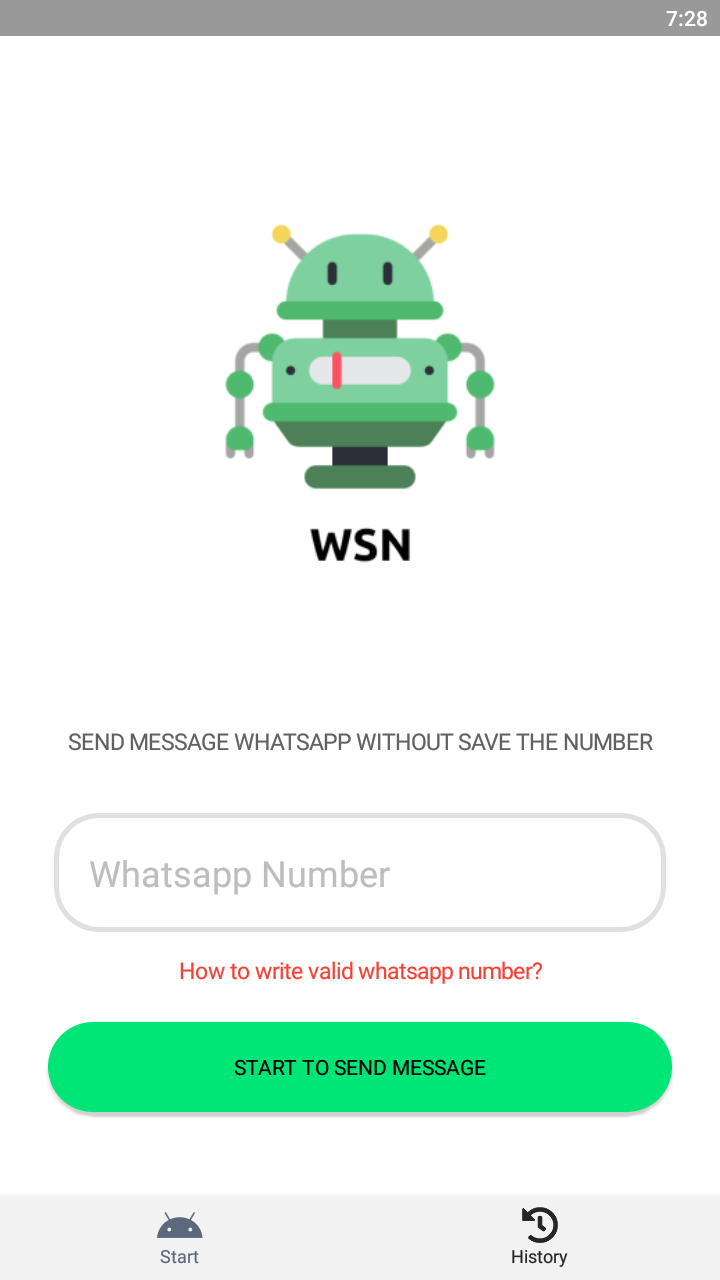
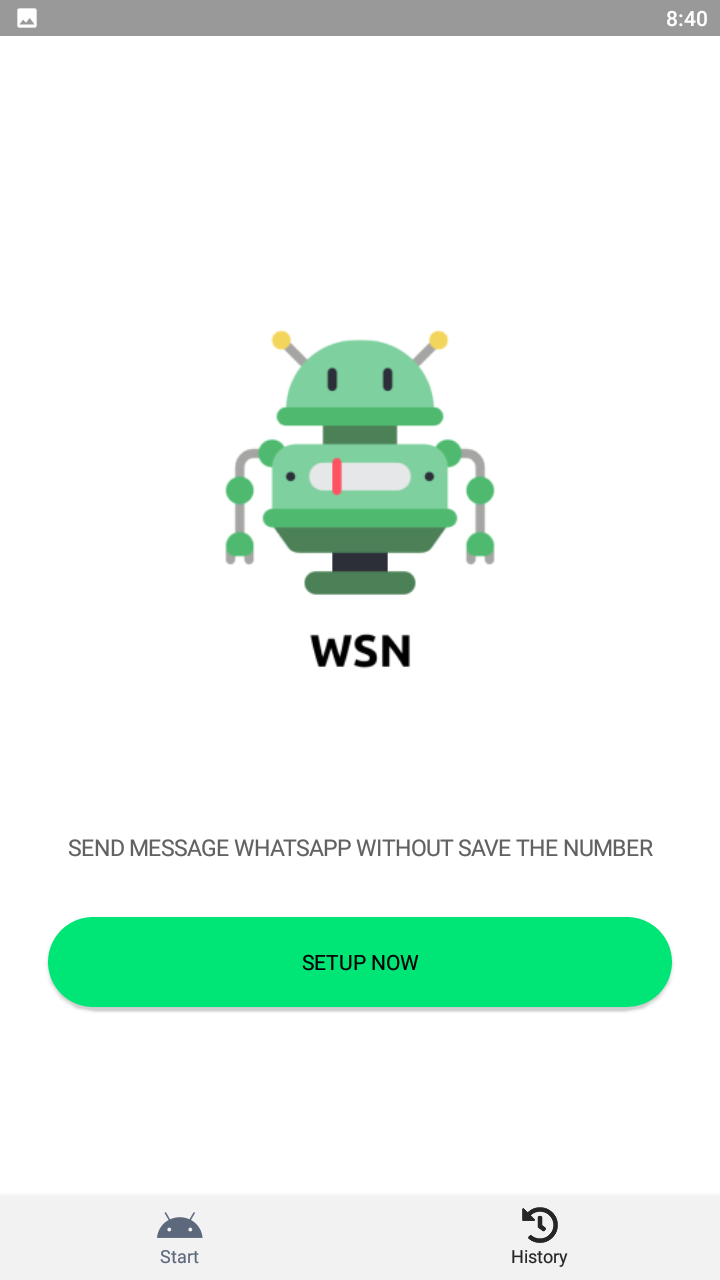
update 1.5.0

diff --git a/app/global-helper.js b/app/global-helper.js
@@ -261,4 +261,23 @@ exports.invalidPhoneNumber = function(num){
     {
         return false;
     }
-}
+};
+
+exports.countryList = function(keyword=false){
+    const jsonCountry = [{"name":"Afghanistan","dial_code":"+93","code":"AF","flag":"🇦🇫"},{"name":"Åland Islands","dial_code":"+358","code":"AX","flag":"🇦🇽"},{"name":"Albania","dial_code":"+355","code":"AL","flag":"🇦🇱"},{"name":"Algeria","dial_code":"+213","code":"DZ","flag":"🇩🇿"},{"name":"American Samoa","dial_code":"+1684","code":"AS","flag":"🇺🇸"},{"name":"Andorra","dial_code":"+376","code":"AD","flag":"🇦🇩"},{"name":"Angola","dial_code":"+244","code":"AO","flag":"🇦🇴"},{"name":"Anguilla","dial_code":"+1264","code":"AI","flag":"🇦🇮"},{"name":"Antarctica","dial_code":"+672","code":"AQ","flag":"🇦🇶"},{"name":"Antigua and Barbuda","dial_code":"+1268","code":"AG","flag":"🇦🇬"},{"name":"Argentina","dial_code":"+54","code":"AR","flag":"🇦🇷"},{"name":"Armenia","dial_code":"+374","code":"AM","flag":"🇦🇲"},{"name":"Aruba","dial_code":"+297","code":"AW","flag":"🇦🇼"},{"name":"Australia","dial_code":"+61","code":"AU","flag":"🇦🇺"},{"name":"Austria","dial_code":"+43","code":"AT","flag":"🇦🇹"},{"name":"Azerbaijan","dial_code":"+994","code":"AZ","flag":"🇦🇿"},{"name":"Bahamas","dial_code":"+1242","code":"BS","flag":"🇧🇸"},{"name":"Bahrain","dial_code":"+973","code":"BH","flag":"🇧🇸"},{"name":"Bangladesh","dial_code":"+880","code":"BD","flag":"🇧🇩"},{"name":"Barbados","dial_code":"+1246","code":"BB","flag":"🇧🇧"},{"name":"Belarus","dial_code":"+375","code":"BY","flag":"🇧🇾"},{"name":"Belgium","dial_code":"+32","code":"BE","flag":"🇧🇪"},{"name":"Belize","dial_code":"+501","code":"BZ","flag":"🇧🇿"},{"name":"Benin","dial_code":"+229","code":"BJ","flag":"🇧🇯"},{"name":"Bermuda","dial_code":"+1441","code":"BM","flag":"🇧🇲"},{"name":"Bhutan","dial_code":"+975","code":"BT","flag":"🇧🇹"},{"name":"Bolivia, Plurinational State of bolivia","dial_code":"+591","code":"BO","flag":"🇧🇴"},{"name":"Bosnia and Herzegovina","dial_code":"+387","code":"BA","flag":"🇧🇦"},{"name":"Botswana","dial_code":"+267","code":"BW","flag":"🇧🇼"},{"name":"Bouvet Island","dial_code":"+47","code":"BV","flag":"🏳"},{"name":"Brazil","dial_code":"+55","code":"BR","flag":"🇧🇷"},{"name":"British Indian Ocean Territory","dial_code":"+246","code":"IO","flag":"🇮🇴"},{"name":"Brunei Darussalam","dial_code":"+673","code":"BN","flag":"🇧🇳"},{"name":"Bulgaria","dial_code":"+359","code":"BG","flag":"🇧🇬"},{"name":"Burkina Faso","dial_code":"+226","code":"BF","flag":"🇧🇫"},{"name":"Burundi","dial_code":"+257","code":"BI","flag":"🇧🇮"},{"name":"Cambodia","dial_code":"+855","code":"KH","flag":"🇰🇭"},{"name":"Cameroon","dial_code":"+237","code":"CM","flag":"🇨🇲"},{"name":"Canada","dial_code":"+1","code":"CA","flag":"🇨🇦"},{"name":"Cape Verde","dial_code":"+238","code":"CV","flag":"🇨🇻"},{"name":"Cayman Islands","dial_code":"+ 345","code":"KY","flag":"🇰🇾"},{"name":"Central African Republic","dial_code":"+236","code":"CF","flag":"🇨🇫"},{"name":"Chad","dial_code":"+235","code":"TD","flag":"🇹🇩"},{"name":"Chile","dial_code":"+56","code":"CL","flag":"🇨🇱"},{"name":"China","dial_code":"+86","code":"CN","flag":"🇨🇳"},{"name":"Christmas Island","dial_code":"+61","code":"CX","flag":"🇨🇽"},{"name":"Cocos (Keeling) Islands","dial_code":"+61","code":"CC","flag":"🇨🇨"},{"name":"Colombia","dial_code":"+57","code":"CO","flag":"🇨🇴"},{"name":"Comoros","dial_code":"+269","code":"KM","flag":"🇰🇲"},{"name":"Congo","dial_code":"+242","code":"CG","flag":"🇨🇬"},{"name":"Congo, The Democratic Republic of the Congo","dial_code":"+243","code":"CD","flag":"🇨🇩"},{"name":"Cook Islands","dial_code":"+682","code":"CK","flag":"🇨🇰"},{"name":"Costa Rica","dial_code":"+506","code":"CR","flag":"🇨🇷"},{"name":"Cote d'Ivoire","dial_code":"+225","code":"CI","flag":"🇨🇮"},{"name":"Croatia","dial_code":"+385","code":"HR","flag":"🇭🇷"},{"name":"Cuba","dial_code":"+53","code":"CU","flag":"🇨🇺"},{"name":"Cyprus","dial_code":"+357","code":"CY","flag":"🇨🇾"},{"name":"Czech Republic","dial_code":"+420","code":"CZ","flag":"🇨🇿"},{"name":"Denmark","dial_code":"+45","code":"DK","flag":"🇩🇰"},{"name":"Djibouti","dial_code":"+253","code":"DJ","flag":"🇩🇯"},{"name":"Dominica","dial_code":"+1767","code":"DM","flag":"🇩🇲"},{"name":"Dominican Republic","dial_code":"+1849","code":"DO","flag":"🇨🇩"},{"name":"Ecuador","dial_code":"+593","code":"EC","flag":"🇪🇨"},{"name":"Egypt","dial_code":"+20","code":"EG","flag":"🇪🇬"},{"name":"El Salvador","dial_code":"+503","code":"SV","flag":"🇸🇻"},{"name":"Equatorial Guinea","dial_code":"+240","code":"GQ","flag":"🇬🇶"},{"name":"Eritrea","dial_code":"+291","code":"ER","flag":"🇪🇷"},{"name":"Estonia","dial_code":"+372","code":"EE","flag":"🇪🇪"},{"name":"Ethiopia","dial_code":"+251","code":"ET","flag":"🇪🇹"},{"name":"Falkland Islands (Malvinas)","dial_code":"+500","code":"FK","flag":"🇫🇰"},{"name":"Faroe Islands","dial_code":"+298","code":"FO","flag":"🇫🇴"},{"name":"Fiji","dial_code":"+679","code":"FJ","flag":"🇫🇯"},{"name":"Finland","dial_code":"+358","code":"FI","flag":"🇫🇮"},{"name":"France","dial_code":"+33","code":"FR","flag":"🇫🇷"},{"name":"French Guiana","dial_code":"+594","code":"GF","flag":"🇬🇫"},{"name":"French Polynesia","dial_code":"+689","code":"PF","flag":"🇵🇫"},{"name":"French Southern Territories","dial_code":"+262","code":"TF","flag":"🇹🇫"},{"name":"Gabon","dial_code":"+241","code":"GA","flag":"🇬🇦"},{"name":"Gambia","dial_code":"+220","code":"GM","flag":"🇬🇲"},{"name":"Georgia","dial_code":"+995","code":"GE","flag":"🇬🇪"},{"name":"Germany","dial_code":"+49","code":"DE","flag":"🇩🇪"},{"name":"Ghana","dial_code":"+233","code":"GH","flag":"🇬🇭"},{"name":"Gibraltar","dial_code":"+350","code":"GI","flag":"🇬🇮"},{"name":"Greece","dial_code":"+30","code":"GR","flag":"🇬🇷"},{"name":"Greenland","dial_code":"+299","code":"GL","flag":"🇬🇱"},{"name":"Grenada","dial_code":"+1473","code":"GD","flag":"🇬🇩"},{"name":"Guadeloupe","dial_code":"+590","code":"GP","flag":"🇬🇵"},{"name":"Guam","dial_code":"+1671","code":"GU","flag":"🇬🇺"},{"name":"Guatemala","dial_code":"+502","code":"GT","flag":"🇬🇹"},{"name":"Guernsey","dial_code":"+44","code":"GG","flag":"🇬🇬"},{"name":"Guinea","dial_code":"+224","code":"GN","flag":"🇬🇳"},{"name":"Guinea-Bissau","dial_code":"+245","code":"GW","flag":"🇬🇼"},{"name":"Guyana","dial_code":"+592","code":"GY","flag":"🇬🇾"},{"name":"Haiti","dial_code":"+509","code":"HT","flag":"🇭🇹"},{"name":"Heard Island and Mcdonald Islands","dial_code":"+0","code":"HM","flag":"🏳"},{"name":"Holy See (Vatican City State)","dial_code":"+379","code":"VA","flag":"🇻🇦"},{"name":"Honduras","dial_code":"+504","code":"HN","flag":"🇭🇳"},{"name":"Hong Kong","dial_code":"+852","code":"HK","flag":"🇭🇰"},{"name":"Hungary","dial_code":"+36","code":"HU","flag":"🇭🇺"},{"name":"Iceland","dial_code":"+354","code":"IS","flag":"🇮🇸"},{"name":"India","dial_code":"+91","code":"IN","flag":"🇮🇳"},{"name":"Indonesia","dial_code":"+62","code":"ID","flag":"🇮🇩"},{"name":"Iran, Islamic Republic of Persian Gulf","dial_code":"+98","code":"IR","flag":"🇮🇷"},{"name":"Iraq","dial_code":"+964","code":"IQ","flag":"🇮🇶"},{"name":"Ireland","dial_code":"+353","code":"IE","flag":"🇮🇪"},{"name":"Isle of Man","dial_code":"+44","code":"IM","flag":"🇮🇲"},{"name":"Israel","dial_code":"+972","code":"IL","flag":"🇮🇱"},{"name":"Italy","dial_code":"+39","code":"IT","flag":"🇮🇹"},{"name":"Jamaica","dial_code":"+1876","code":"JM","flag":"🇯🇲"},{"name":"Japan","dial_code":"+81","code":"JP","flag":"🇯🇵"},{"name":"Jersey","dial_code":"+44","code":"JE","flag":"🇯🇪"},{"name":"Jordan","dial_code":"+962","code":"JO","flag":"🇯🇴"},{"name":"Kazakhstan","dial_code":"+7","code":"KZ","flag":"🇰🇿"},{"name":"Kenya","dial_code":"+254","code":"KE","flag":"🇰🇪"},{"name":"Kiribati","dial_code":"+686","code":"KI","flag":"🇰🇮"},{"name":"Korea, Democratic People's Republic of Korea","dial_code":"+850","code":"KP","flag":"🇰🇵"},{"name":"Korea, Republic of South Korea","dial_code":"+82","code":"KR","flag":"🇰🇷"},{"name":"Kosovo","dial_code":"+383","code":"XK","flag":"🇽🇰"},{"name":"Kuwait","dial_code":"+965","code":"KW","flag":"🇰🇼"},{"name":"Kyrgyzstan","dial_code":"+996","code":"KG","flag":"🇰🇬"},{"name":"Laos","dial_code":"+856","code":"LA","flag":"🇱🇦"},{"name":"Latvia","dial_code":"+371","code":"LV","flag":"🇱🇻"},{"name":"Lebanon","dial_code":"+961","code":"LB","flag":"🇱🇧"},{"name":"Lesotho","dial_code":"+266","code":"LS","flag":"🇱🇸"},{"name":"Liberia","dial_code":"+231","code":"LR","flag":"🇱🇷"},{"name":"Libyan Arab Jamahiriya","dial_code":"+218","code":"LY","flag":"🇱🇾"},{"name":"Liechtenstein","dial_code":"+423","code":"LI","flag":"🇱🇮"},{"name":"Lithuania","dial_code":"+370","code":"LT","flag":"🇱🇹"},{"name":"Luxembourg","dial_code":"+352","code":"LU","flag":"🇱🇺"},{"name":"Macao","dial_code":"+853","code":"MO","flag":"🇲🇴"},{"name":"Macedonia","dial_code":"+389","code":"MK","flag":"🇲🇰"},{"name":"Madagascar","dial_code":"+261","code":"MG","flag":"🇲🇬"},{"name":"Malawi","dial_code":"+265","code":"MW","flag":"🇲🇼"},{"name":"Malaysia","dial_code":"+60","code":"MY","flag":"🇲🇾"},{"name":"Maldives","dial_code":"+960","code":"MV","flag":"🇲🇻"},{"name":"Mali","dial_code":"+223","code":"ML","flag":"🇲🇱"},{"name":"Malta","dial_code":"+356","code":"MT","flag":"🇲🇹"},{"name":"Marshall Islands","dial_code":"+692","code":"MH","flag":"🇲🇭"},{"name":"Martinique","dial_code":"+596","code":"MQ","flag":"🇲🇶"},{"name":"Mauritania","dial_code":"+222","code":"MR","flag":"🇲🇷"},{"name":"Mauritius","dial_code":"+230","code":"MU","flag":"🇲🇺"},{"name":"Mayotte","dial_code":"+262","code":"YT","flag":"🇾🇹"},{"name":"Mexico","dial_code":"+52","code":"MX","flag":"🇲🇽"},{"name":"Micronesia, Federated States of Micronesia","dial_code":"+691","code":"FM","flag":"🇫🇲"},{"name":"Moldova","dial_code":"+373","code":"MD","flag":"🇲🇩"},{"name":"Monaco","dial_code":"+377","code":"MC","flag":"🇲🇨"},{"name":"Mongolia","dial_code":"+976","code":"MN","flag":"🇲🇳"},{"name":"Montenegro","dial_code":"+382","code":"ME","flag":"🇲🇪"},{"name":"Montserrat","dial_code":"+1664","code":"MS","flag":"🇲🇸"},{"name":"Morocco","dial_code":"+212","code":"MA","flag":"🇲🇦"},{"name":"Mozambique","dial_code":"+258","code":"MZ","flag":"🇲🇿"},{"name":"Myanmar","dial_code":"+95","code":"MM","flag":"🇲🇲"},{"name":"Namibia","dial_code":"+264","code":"NA","flag":"🇳🇦"},{"name":"Nauru","dial_code":"+674","code":"NR","flag":"🇳🇷"},{"name":"Nepal","dial_code":"+977","code":"NP","flag":"🇳🇵"},{"name":"Netherlands","dial_code":"+31","code":"NL","flag":"🇳🇱"},{"name":"Netherlands Antilles","dial_code":"+599","code":"AN","flag":"🇳🇱"},{"name":"New Caledonia","dial_code":"+687","code":"NC","flag":"🇳🇨"},{"name":"New Zealand","dial_code":"+64","code":"NZ","flag":"🇳🇿"},{"name":"Nicaragua","dial_code":"+505","code":"NI","flag":"🇳🇮"},{"name":"Niger","dial_code":"+227","code":"NE","flag":"🇳🇪"},{"name":"Nigeria","dial_code":"+234","code":"NG","flag":"🇳🇬"},{"name":"Niue","dial_code":"+683","code":"NU","flag":"🇳🇺"},{"name":"Norfolk Island","dial_code":"+672","code":"NF","flag":"🇳🇫"},{"name":"Northern Mariana Islands","dial_code":"+1670","code":"MP","flag":"🏳"},{"name":"Norway","dial_code":"+47","code":"NO","flag":"🇳🇴"},{"name":"Oman","dial_code":"+968","code":"OM","flag":"🇴🇲"},{"name":"Pakistan","dial_code":"+92","code":"PK","flag":"🇵🇰"},{"name":"Palau","dial_code":"+680","code":"PW","flag":"🇵🇼"},{"name":"Palestinian Territory, Occupied","dial_code":"+970","code":"PS","flag":"🇵🇸"},{"name":"Panama","dial_code":"+507","code":"PA","flag":"🇵🇦"},{"name":"Papua New Guinea","dial_code":"+675","code":"PG","flag":"🇵🇬"},{"name":"Paraguay","dial_code":"+595","code":"PY","flag":"🇵🇾"},{"name":"Peru","dial_code":"+51","code":"PE","flag":"🇵🇪"},{"name":"Philippines","dial_code":"+63","code":"PH","flag":"🇵🇭"},{"name":"Pitcairn","dial_code":"+64","code":"PN","flag":"🇵🇳"},{"name":"Poland","dial_code":"+48","code":"PL","flag":"🇵🇱"},{"name":"Portugal","dial_code":"+351","code":"PT","flag":"🇵🇹"},{"name":"Puerto Rico","dial_code":"+1939","code":"PR","flag":"🇵🇷"},{"name":"Qatar","dial_code":"+974","code":"QA","flag":"🇶🇦"},{"name":"Romania","dial_code":"+40","code":"RO","flag":"🇷🇴"},{"name":"Russia","dial_code":"+7","code":"RU","flag":"🇷🇺"},{"name":"Rwanda","dial_code":"+250","code":"RW","flag":"🇷🇼"},{"name":"Reunion","dial_code":"+262","code":"RE","flag":"🇫🇷"},{"name":"Saint Barthelemy","dial_code":"+590","code":"BL","flag":"🇧🇱"},{"name":"Saint Helena, Ascension and Tristan Da Cunha","dial_code":"+290","code":"SH","flag":"🇸🇭"},{"name":"Saint Kitts and Nevis","dial_code":"+1869","code":"KN","flag":"🇰🇳"},{"name":"Saint Lucia","dial_code":"+1758","code":"LC","flag":"🇱🇨"},{"name":"Saint Martin","dial_code":"+590","code":"MF","flag":"🏳"},{"name":"Saint Pierre and Miquelon","dial_code":"+508","code":"PM","flag":"🇵🇲"},{"name":"Saint Vincent and the Grenadines","dial_code":"+1784","code":"VC","flag":"🇻🇨"},{"name":"Samoa","dial_code":"+685","code":"WS","flag":"🇼🇸"},{"name":"San Marino","dial_code":"+378","code":"SM","flag":"🇸🇲"},{"name":"Sao Tome and Principe","dial_code":"+239","code":"ST","flag":"🇸🇹"},{"name":"Saudi Arabia","dial_code":"+966","code":"SA","flag":"🇸🇦"},{"name":"Senegal","dial_code":"+221","code":"SN","flag":"🇸🇳"},{"name":"Serbia","dial_code":"+381","code":"RS","flag":"🇷🇸"},{"name":"Seychelles","dial_code":"+248","code":"SC","flag":"🇸🇨"},{"name":"Sierra Leone","dial_code":"+232","code":"SL","flag":"🇸🇱"},{"name":"Singapore","dial_code":"+65","code":"SG","flag":"🇸🇬"},{"name":"Slovakia","dial_code":"+421","code":"SK","flag":"🇸🇰"},{"name":"Slovenia","dial_code":"+386","code":"SI","flag":"🇸🇮"},{"name":"Solomon Islands","dial_code":"+677","code":"SB","flag":"🇸🇧"},{"name":"Somalia","dial_code":"+252","code":"SO","flag":"🇸🇴"},{"name":"South Africa","dial_code":"+27","code":"ZA","flag":"🇿🇦"},{"name":"South Sudan","dial_code":"+211","code":"SS","flag":"🇸🇸"},{"name":"South Georgia and the South Sandwich Islands","dial_code":"+500","code":"GS","flag":"🇬🇸"},{"name":"Spain","dial_code":"+34","code":"ES","flag":"🇪🇸"},{"name":"Sri Lanka","dial_code":"+94","code":"LK","flag":"🇱🇰"},{"name":"Sudan","dial_code":"+249","code":"SD","flag":"🇸🇩"},{"name":"Suriname","dial_code":"+597","code":"SR","flag":"🇸🇷"},{"name":"Svalbard and Jan Mayen","dial_code":"+47","code":"SJ","flag":"🇩🇰"},{"name":"Swaziland","dial_code":"+268","code":"SZ","flag":"🇸🇿"},{"name":"Sweden","dial_code":"+46","code":"SE","flag":"🇸🇪"},{"name":"Switzerland","dial_code":"+41","code":"CH","flag":"🇨🇭"},{"name":"Syrian Arab Republic","dial_code":"+963","code":"SY","flag":"🇸🇾"},{"name":"Taiwan","dial_code":"+886","code":"TW","flag":"🇹🇼"},{"name":"Tajikistan","dial_code":"+992","code":"TJ","flag":"🇹🇯"},{"name":"Tanzania, United Republic of Tanzania","dial_code":"+255","code":"TZ","flag":"🇹🇿"},{"name":"Thailand","dial_code":"+66","code":"TH","flag":"🇹🇭"},{"name":"Timor-Leste","dial_code":"+670","code":"TL","flag":"🇹🇱"},{"name":"Togo","dial_code":"+228","code":"TG","flag":"🇹🇬"},{"name":"Tokelau","dial_code":"+690","code":"TK","flag":"🇹🇰"},{"name":"Tonga","dial_code":"+676","code":"TO","flag":"🇹🇴"},{"name":"Trinidad and Tobago","dial_code":"+1868","code":"TT","flag":"🇹🇹"},{"name":"Tunisia","dial_code":"+216","code":"TN","flag":"🇹🇳"},{"name":"Turkey","dial_code":"+90","code":"TR","flag":"🇹🇷"},{"name":"Turkmenistan","dial_code":"+993","code":"TM","flag":"🇹🇲"},{"name":"Turks and Caicos Islands","dial_code":"+1649","code":"TC","flag":"🇹🇨"},{"name":"Tuvalu","dial_code":"+688","code":"TV","flag":"🇹🇻"},{"name":"Uganda","dial_code":"+256","code":"UG","flag":"🇺🇬"},{"name":"Ukraine","dial_code":"+380","code":"UA","flag":"🇺🇦"},{"name":"United Arab Emirates","dial_code":"+971","code":"AE","flag":"🇦🇪"},{"name":"United Kingdom","dial_code":"+44","code":"GB","flag":"🇬🇧"},{"name":"United States","dial_code":"+1","code":"US","flag":"🇺🇸"},{"name":"Uruguay","dial_code":"+598","code":"UY","flag":"🇺🇾"},{"name":"Uzbekistan","dial_code":"+998","code":"UZ","flag":"🇺🇿"},{"name":"Vanuatu","dial_code":"+678","code":"VU","flag":"🇻🇺"},{"name":"Venezuela, Bolivarian Republic of Venezuela","dial_code":"+58","code":"VE","flag":"🇻🇪"},{"name":"Vietnam","dial_code":"+84","code":"VN","flag":"🇻🇳"},{"name":"Virgin Islands, British","dial_code":"+1284","code":"VG","flag":"🇻🇬"},{"name":"Virgin Islands, U.S.","dial_code":"+1340","code":"VI","flag":"🇻🇮"},{"name":"Wallis and Futuna","dial_code":"+681","code":"WF","flag":"🇼🇫"},{"name":"Yemen","dial_code":"+967","code":"YE","flag":"🇾🇪"},{"name":"Zambia","dial_code":"+260","code":"ZM","flag":"🇿🇲"},{"name":"Zimbabwe","dial_code":"+263","code":"ZW","flag":"🇿🇼"}];
+
+    if(keyword === false){
+        return jsonCountry;
+    } else {
+        var dataFilter = [];
+        var ij = 0;
+        for (var i in jsonCountry) {
+            if (jsonCountry[i].name.toLowerCase().indexOf(keyword) > -1) {
+                dataFilter[ij] = jsonCountry[i];
+                ij++;
+            }
+        }
+
+        return dataFilter;
+    }
+};

diff --git a/app/home/home-page.js b/app/home/home-page.js
@@ -1,5 +1,8 @@
 const utilsModule = require("tns-core-modules/utils/utils");
 const appSettings = require("tns-core-modules/application-settings");
+const snackBarModule = require("@nstudio/nativescript-snackbar").SnackBar;
+const snackbar = new snackBarModule();
+
 const GlobalModel = require("../global-model");
 const globalHelper = require("../global-helper");
 
@@ -9,8 +12,21 @@ var context, framePage;
 exports.onLoaded = function(args) {
     framePage = args.object.frame;
 
-	appSettings.setString("CONFIG_URL", "https://wa.me/");
-	appSettings.setString("CONFIG_COUNTRY_CODE", "62");
+    /* 
+        Universal Links : https://wa.me/
+        Custom URL Scheme : whatsapp://
+
+        More information you can open link below :
+        https://faq.whatsapp.com/iphone/how-to-link-to-whatsapp-from-a-different-app/?lang=en    
+    */
+    if(appSettings.hasKey("HAS_SETUP")){
+        context.set("setup", true);
+        __contextSetCountryData();
+    } else {
+        context.set("setup", false);
+    }
+
+    appSettings.setString("CONFIG_URL", "whatsapp://send?phone=");
 };
 
 exports.onNavigatingTo = function(args) {
@@ -20,7 +36,7 @@ exports.onNavigatingTo = function(args) {
 
 	page.bindingContext = context;
 };
-
+ 
 exports.openApps = function(){
     const vNum = globalHelper.validatePhoneNumber(context.phone_number);
     if(globalHelper.invalidPhoneNumber(vNum)){
@@ -35,7 +51,16 @@ exports.openApps = function(){
         context.set("phone_number", "");
     }
     else {
-        alert("Format number is not Valid!!!");
+        snackbar.action({
+            actionText: "OKE",
+            actionTextColor: '#FFEB3B',
+            snackText: "FORMAT NUMBER IS NOT VALID!",
+            textColor: '#FFFFFF',
+            hideDelay: 5000,
+            backgroundColor: '#333',
+            maxLines: 15, // Optional, Android Only
+            isRTL: false
+        });
     }
 };
 
@@ -46,3 +71,18 @@ exports.infoTap = function(){
         transition: { name: "fade" }
     });
 };
+
+exports.setup = function(){
+    framePage.navigate({
+        moduleName: "setup/setup-page",
+        animated: true,
+        transition: { name: "fade" }
+    });
+};
+
+function __contextSetCountryData(){
+    const countryData = JSON.parse(appSettings.getString("CONFIG_COUNTRY_CODE_DATA"));
+    context.set("configDialCode", countryData.dial_code);
+    context.set("configFlag", countryData.flag);
+    context.set("hint_text", "Whatsapp Number (" + countryData.dial_code + ")");
+}

diff --git a/app/setup/setup-page.js b/app/setup/setup-page.js
@@ -1,0 +1,59 @@
+const appSettings = require("tns-core-modules/application-settings");
+const GlobalModel = require("../global-model");
+const globalHelper = require("../global-helper");
+
+var API = new GlobalModel([]);
+var context, framePage; 
+
+exports.onLoaded = function(args) {
+    framePage = args.object.frame;   
+	appSettings.setString("CONFIG_URL", "whatsapp://send?phone=");
+};
+
+exports.onNavigatingTo = function(args) {
+	const page = args.object; 
+
+	context = API;
+
+    context.set("items", globalHelper.countryList());
+
+	page.bindingContext = context;
+};
+
+exports.onItemTap = (args) => {
+    let itemTap = args.view;
+    let itemTapData = itemTap.bindingContext;
+
+    confirm({
+        title: "Set " + itemTapData.dial_code + " as Default Dial Code",
+        message: "Are you sure you want to select [" + itemTapData.name.toUpperCase() + "] as default country?",
+        okButtonText: "Yes",
+        neutralButtonText: "No"
+    }).then((result) => {
+        if(result) { 
+            appSettings.setString("CONFIG_COUNTRY_CODE", itemTapData.dial_code.substring(1));
+            appSettings.setString("CONFIG_COUNTRY_CODE_DATA", JSON.stringify(itemTapData));
+            appSettings.setBoolean("HAS_SETUP", true);
+
+            framePage.navigate({
+                moduleName: "home/home-page",
+                animated: true,
+                clearHistory: true,
+                transition: {
+                    name: "fade"
+                }
+            });
+        }
+    });
+};
+
+exports.home = function(){
+    framePage.navigate({
+        moduleName: "home/home-page",
+        animated: true,
+        clearHistory: true,
+        transition: {
+            name: "fade"
+        }
+    });
+};

diff --git a/app/_app-common.scss b/app/_app-common.scss
@@ -61,10 +61,10 @@
   border-width: 3;
   border-color: #E0E0E0;
   placeholder-color: #BDBDBD;
-  padding: 20;
+  padding: 18;
   color: #424242;
-  border-radius: 30;
-  font-size: 24;
+  border-radius: 50%;
+  font-size: 20;
 }
 
 .btn-whatsapp {
